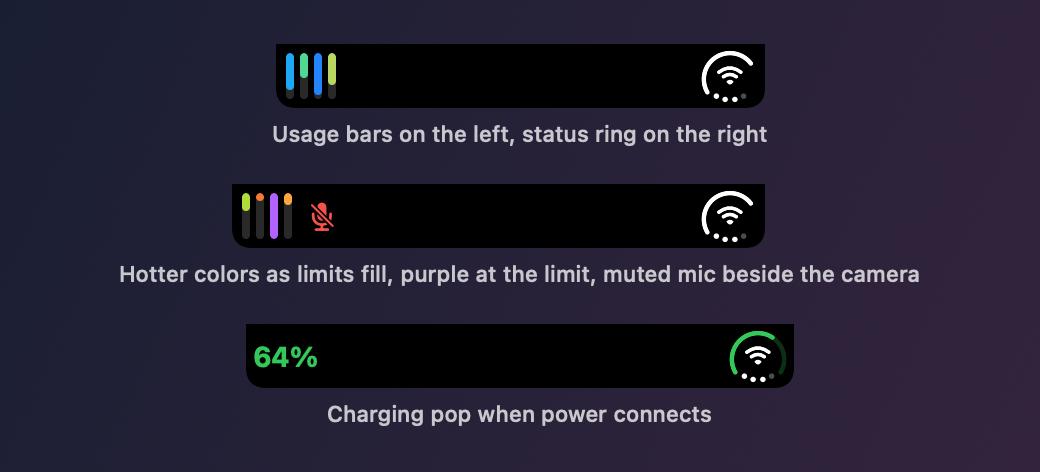
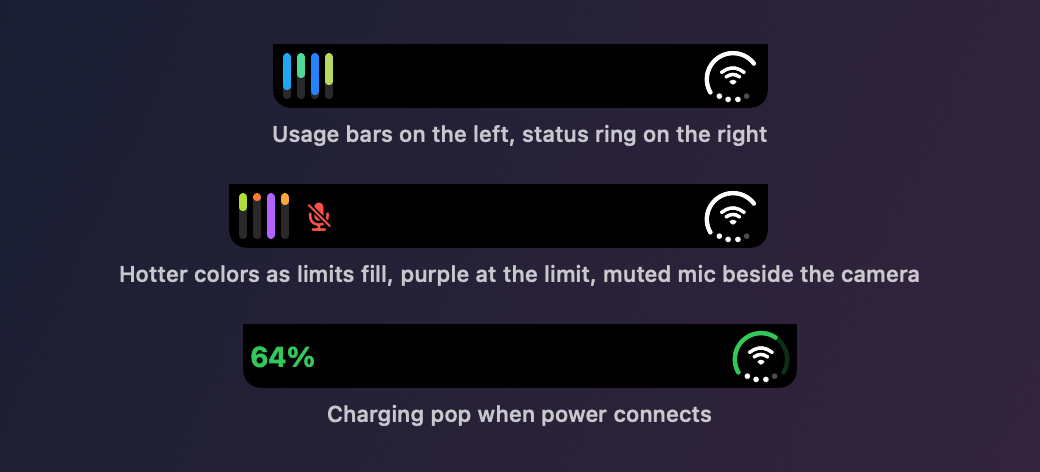
Move closed-notch glyphs 1.5 pt further from the camera

diff --git a/Notchly/Views/Island/Battery/CompactBatteryView.swift b/Notchly/Views/Island/Battery/CompactBatteryView.swift
@@ -27,7 +27,7 @@ struct CompactBatteryView: View {
     static let verticalInset: CGFloat = 2.5
     /// How far inside the notch edges macOS reports the camera housing really ends, on
     /// each side. The island's middle keeps the reported width; only the glyphs move in.
-    static let cameraHousingInset: CGFloat = 5
+    static let cameraHousingInset: CGFloat = 3.5
     static let micIconWidth: CGFloat = 14
     static let leftWingSpacing: CGFloat = 8
 
